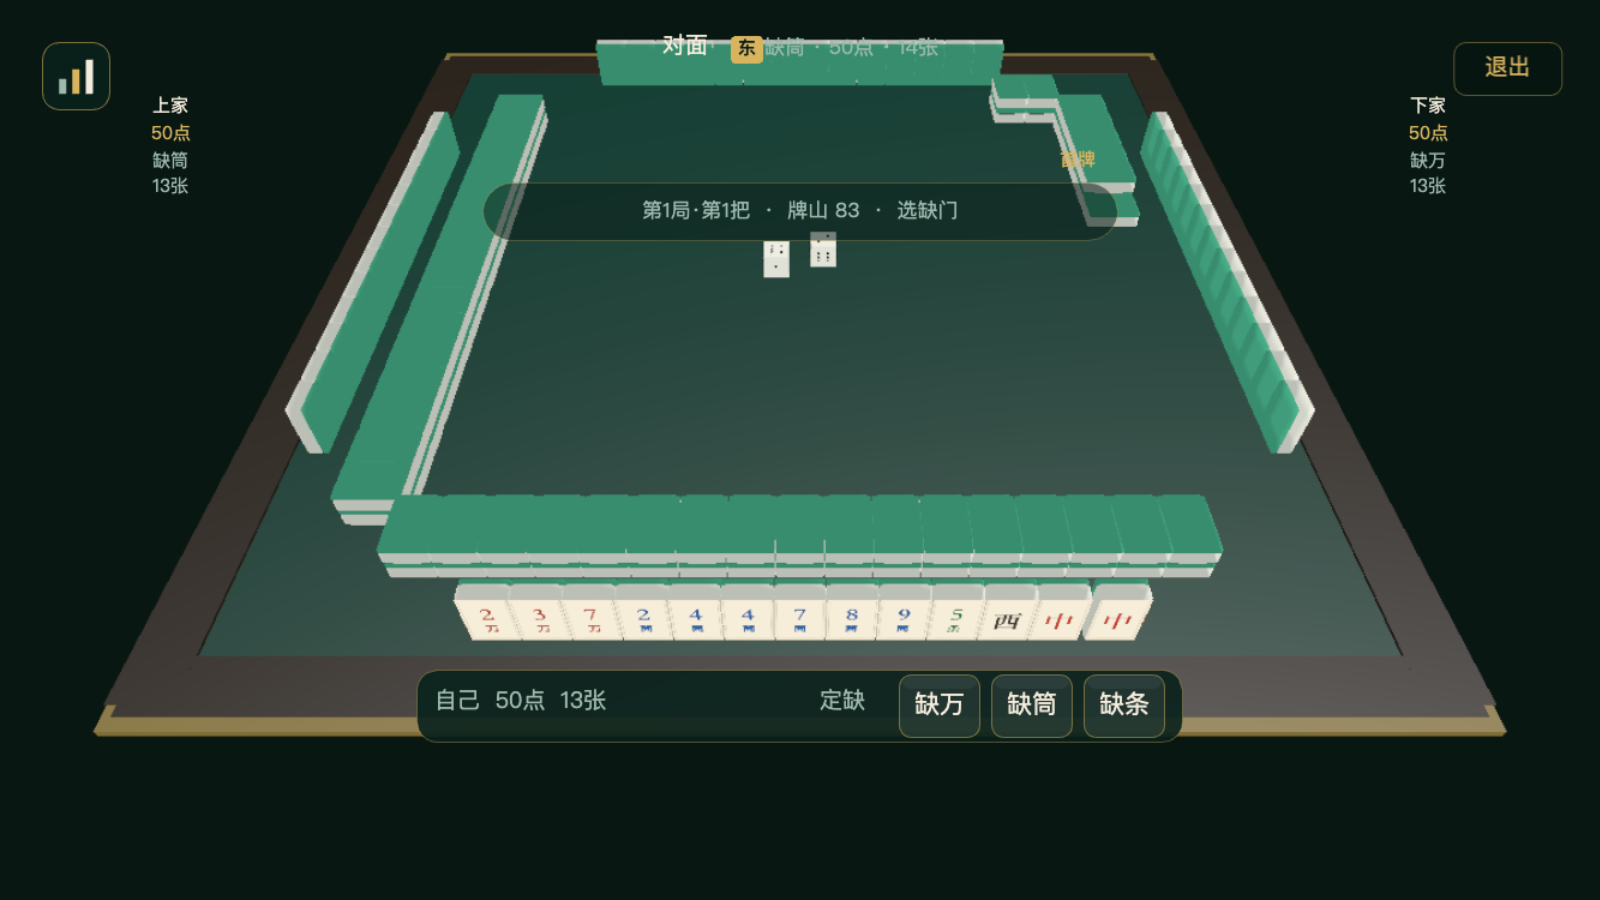
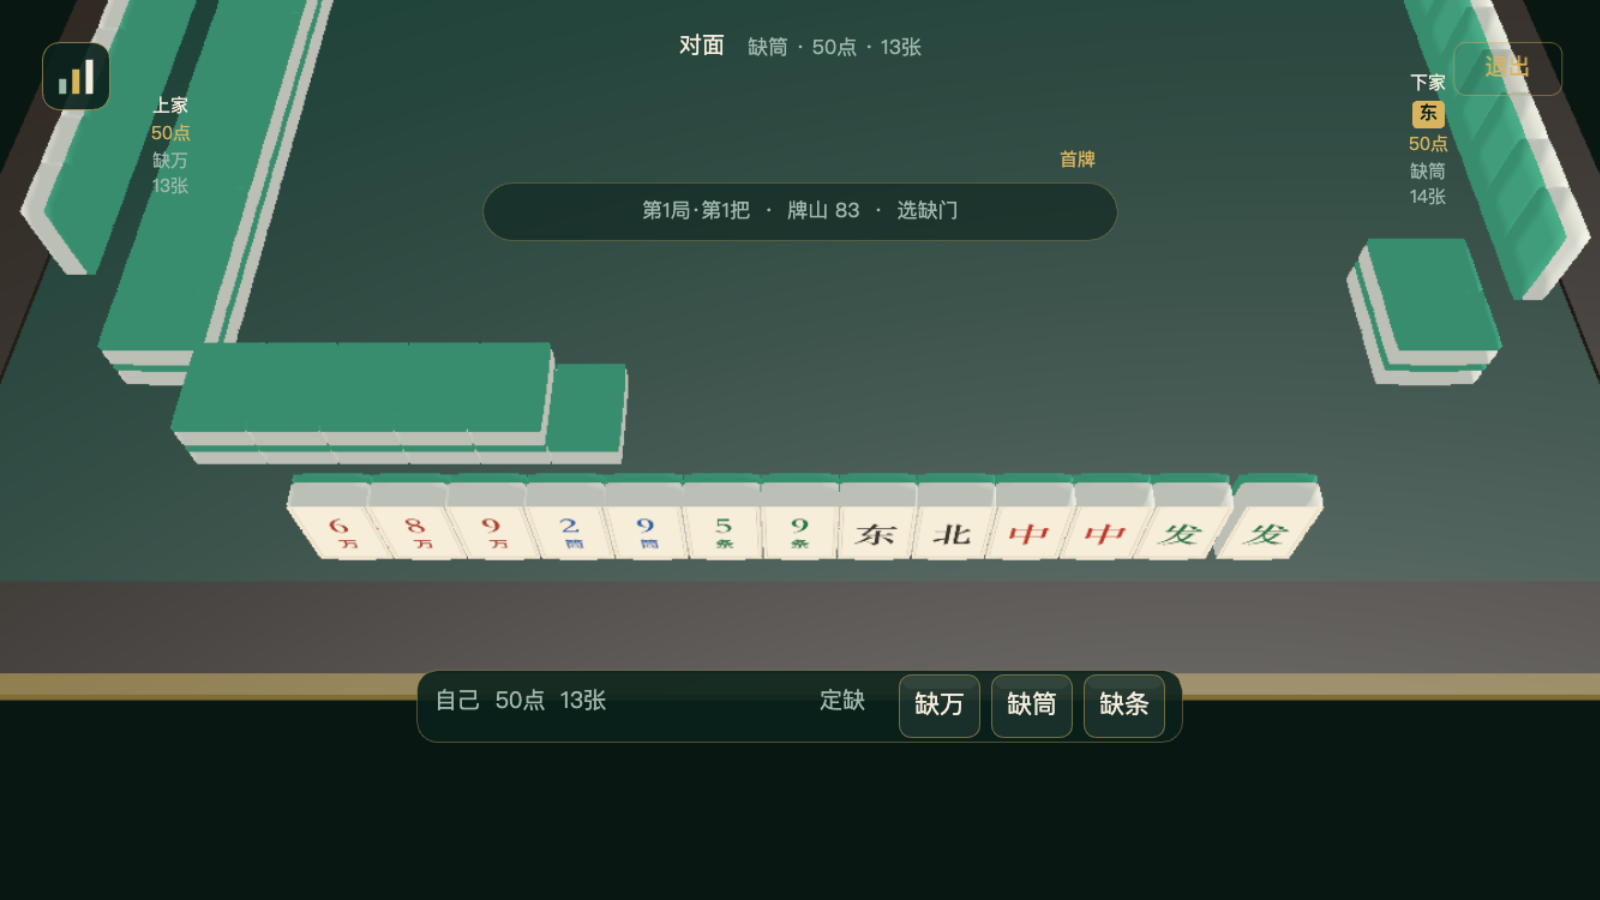
fix(layair): 相机进一步贴近本家手牌，高亮改角标
相机降到桌面附近并收窄，本家手牌占满主要画面；牌河高亮改为黄色四角标记，不再给整张牌填色。

diff --git a/layair/src/ui/TableView.ts b/layair/src/ui/TableView.ts
@@ -1472,13 +1472,17 @@ export class TableView {
       const y0 = Math.round(gy)
       const x1 = x0 + Math.round(mark.w)
       const y1 = y0 + Math.round(mark.h)
-      const lw = 2
-      const frame = new Laya.Sprite()
-      frame.graphics.drawRect(x0, y0, x1 - x0, lw, '#F5C542')
-      frame.graphics.drawRect(x0, y1 - lw, x1 - x0, lw, '#F5C542')
-      frame.graphics.drawRect(x0, y0 + lw, lw, y1 - y0 - lw * 2, '#F5C542')
-      frame.graphics.drawRect(x1 - lw, y0 + lw, lw, y1 - y0 - lw * 2, '#F5C542')
-      this.content.addChild(frame)
+      const lw = 3
+      const arm = Math.max(6, Math.min(16, Math.round(Math.min(mark.w, mark.h) * 0.35)))
+      const g = this.content.graphics
+      g.drawLine(x0, y0, x0 + arm, y0, '#F5C542', lw)
+      g.drawLine(x0, y0, x0, y0 + arm, '#F5C542', lw)
+      g.drawLine(x1, y0, x1 - arm, y0, '#F5C542', lw)
+      g.drawLine(x1, y0, x1, y0 + arm, '#F5C542', lw)
+      g.drawLine(x0, y1, x0 + arm, y1, '#F5C542', lw)
+      g.drawLine(x0, y1, x0, y1 - arm, '#F5C542', lw)
+      g.drawLine(x1, y1, x1 - arm, y1, '#F5C542', lw)
+      g.drawLine(x1, y1, x1, y1 - arm, '#F5C542', lw)
     }
 
   }

diff --git a/layair/src/ui/Table3D.ts b/layair/src/ui/Table3D.ts
@@ -120,9 +120,9 @@ export class Table3D {
     this.camera.nearPlane = 1
     // 固定相机稍收窄，保证自己的手牌清楚，同时整桌和四家牌河都在画面内。
     this.camera.farPlane = 16000
-    this.camera.fieldOfView = 50
-    this.camera.transform.position = new Laya.Vector3(0, 900, 1150)
-    this.camera.transform.rotationEuler = new Laya.Vector3(-48, 0, 0)
+    this.camera.fieldOfView = 38
+    this.camera.transform.position = new Laya.Vector3(0, 850, 1050)
+    this.camera.transform.rotationEuler = new Laya.Vector3(-58, 0, 0)
 
     this.tableRoot = new Laya.Sprite3D()
     this.dynamicRoot = new Laya.Sprite3D()
